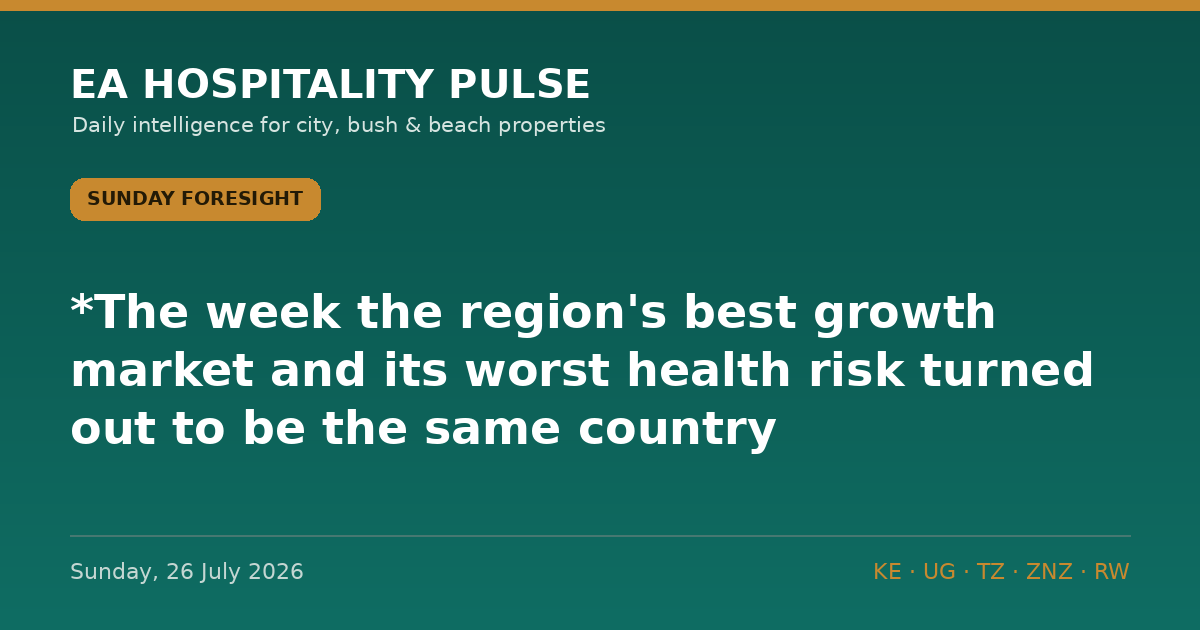
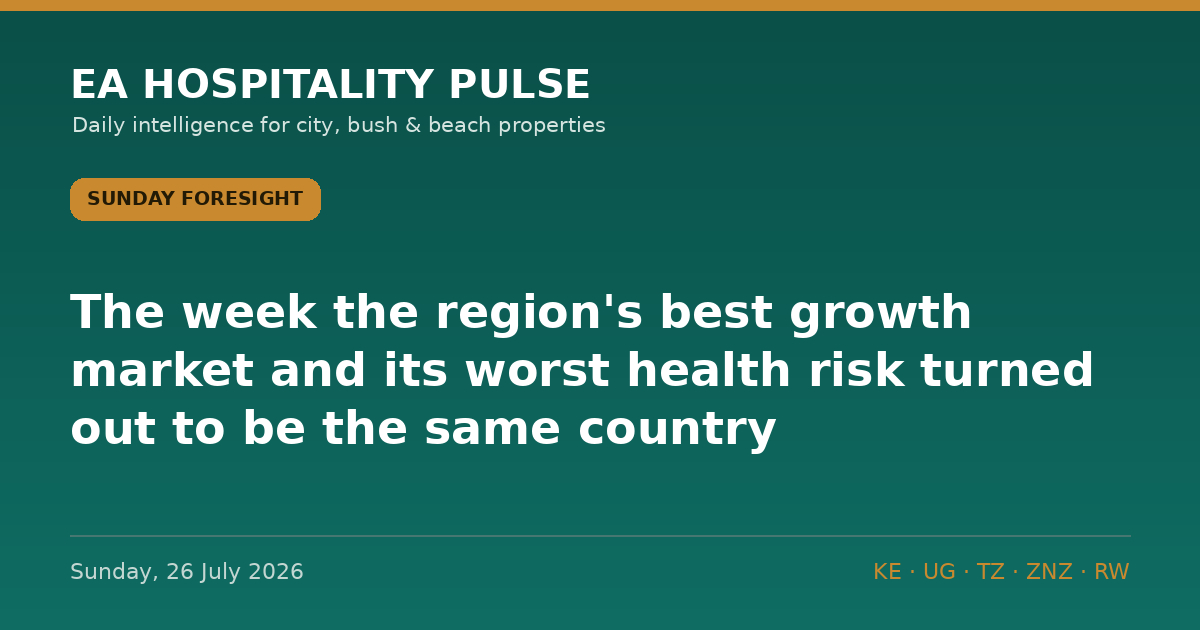
Render markdown emphasis on web and PDF instead of literal asterisks

Changed region(s): [[0.0617, 0.4524, 0.8325, 0.5429]]

diff --git a/editions/foresight-2026-07-26.html b/editions/foresight-2026-07-26.html
@@ -2,19 +2,19 @@
 <html lang="en"><head>
 <meta charset="UTF-8"><meta name="viewport" content="width=device-width,initial-scale=1">
 <title>Sunday Foresight — Sunday, 26 July 2026 | EA Hospitality Pulse</title>
-<meta name="description" content="*The week the region&#x27;s best growth market and its worst health risk turned out to be the same country.*">
+<meta name="description" content="The week the region&#x27;s best growth market and its worst health risk turned out to be the same country.">
 <link rel="canonical" href="https://ogcollyns-creator.github.io/ea-hospitality-pulse/editions/foresight-2026-07-26.html">
 <meta property="og:type" content="article"><meta property="og:site_name" content="EA Hospitality Pulse">
 <meta property="og:title" content="Sunday Foresight — Sunday, 26 July 2026">
-<meta property="og:description" content="*The week the region&#x27;s best growth market and its worst health risk turned out to be the same country.*"><meta property="og:url" content="https://ogcollyns-creator.github.io/ea-hospitality-pulse/editions/foresight-2026-07-26.html">
+<meta property="og:description" content="The week the region&#x27;s best growth market and its worst health risk turned out to be the same country."><meta property="og:url" content="https://ogcollyns-creator.github.io/ea-hospitality-pulse/editions/foresight-2026-07-26.html">
 <meta property="og:image" content="https://ogcollyns-creator.github.io/ea-hospitality-pulse/og/foresight-2026-07-26.png"><meta property="og:image:width" content="1200"><meta property="og:image:height" content="630">
 <meta name="twitter:image" content="https://ogcollyns-creator.github.io/ea-hospitality-pulse/og/foresight-2026-07-26.png">
 <link rel="icon" href="../favicon.png"><link rel="apple-touch-icon" href="../apple-touch-icon.png">
 <meta name="twitter:card" content="summary_large_image">
 <meta name="twitter:title" content="Sunday Foresight — Sunday, 26 July 2026">
-<meta name="twitter:description" content="*The week the region&#x27;s best growth market and its worst health risk turned out to be the same country.*">
+<meta name="twitter:description" content="The week the region&#x27;s best growth market and its worst health risk turned out to be the same country.">
 <meta property="article:published_time" content="2026-07-26">
-<script type="application/ld+json">{"@context": "https://schema.org", "@type": "NewsArticle", "headline": "*The week the region's best growth market and its worst health risk turned out to be the same country.*", "datePublished": "2026-07-26", "dateModified": "2026-07-26", "description": "*The week the region's best growth market and its worst health risk turned out to be the same country.*", "url": "https://ogcollyns-creator.github.io/ea-hospitality-pulse/editions/foresight-2026-07-26.html", "mainEntityOfPage": "https://ogcollyns-creator.github.io/ea-hospitality-pulse/editions/foresight-2026-07-26.html", "articleSection": "Sunday Foresight", "author": {"@type": "Organization", "name": "EA Hospitality Pulse"}, "publisher": {"@type": "Organization", "name": "EA Hospitality Pulse"}, "about": ["Kenya", "Uganda", "Tanzania", "Zanzibar", "Rwanda", "hospitality", "tourism"]}</script>
+<script type="application/ld+json">{"@context": "https://schema.org", "@type": "NewsArticle", "headline": "The week the region's best growth market and its worst health risk turned out to be the same country.", "datePublished": "2026-07-26", "dateModified": "2026-07-26", "description": "The week the region's best growth market and its worst health risk turned out to be the same country.", "url": "https://ogcollyns-creator.github.io/ea-hospitality-pulse/editions/foresight-2026-07-26.html", "mainEntityOfPage": "https://ogcollyns-creator.github.io/ea-hospitality-pulse/editions/foresight-2026-07-26.html", "articleSection": "Sunday Foresight", "author": {"@type": "Organization", "name": "EA Hospitality Pulse"}, "publisher": {"@type": "Organization", "name": "EA Hospitality Pulse"}, "about": ["Kenya", "Uganda", "Tanzania", "Zanzibar", "Rwanda", "hospitality", "tourism"]}</script>
 <style>
 :root{--sand:#f6f1e7;--ink:#1f2421;--muted:#6b6656;--gold:#c8892f;--gold-d:#a86f1f;--teal:#0f6d63;--teal-d:#0a4f48;--line:#e2d8c4;--sand-2:#efe7d6;--card:#fffdf9}
 *{box-sizing:border-box}body{margin:0;font-family:Georgia,Cambria,serif;color:var(--ink);background:var(--sand);line-height:1.6}
@@ -48,20 +48,20 @@ footer.s{text-align:center;color:var(--muted);font-family:Helvetica Neue,Arial,s
   <article class="art">
     <a class="nav" href="../index.html#archive">← All editions</a>
     <div><span class="badge">Sunday Foresight</span><time>Sunday, 26 July 2026</time></div>
-    <h1>*The week the region&#x27;s best growth market and its worst health risk turned out to be the same country.</h1>
+    <h1>The week the region&#x27;s best growth market and its worst health risk turned out to be the same country.</h1>
     <p><span class="meta-line">🏨 EA HOSPITALITY PULSE — Sunday Foresight</span><br><span class="meta-line">📅 Sunday, 26 July 2026 | 🇰🇪 🇺🇬 🇹🇿 🇷🇼</span></p>
-<p>*The week the region&#x27;s best growth market and its worst health risk turned out to be the same country.*<br>━━━━━━━━━</p>
-<p>**THE THEME: YOUR NEW GROWTH ENGINE HAS A HEALTH PROBLEM**</p>
+<p><strong>The week the region&#x27;s best growth market and its worst health risk turned out to be the same country.</strong><br>━━━━━━━━━</p>
+<p><strong>THE THEME: YOUR NEW GROWTH ENGINE HAS A HEALTH PROBLEM</strong></p>
 <p>Read the daily briefs back and the week looks like good news. Uganda counting down to an Ebola all-clear. Uganda Airlines committing to eight Boeing jets. Emirates going triple-daily into Nairobi. Kampala winning FHS Africa 2027. Mombasa clearing 20,000 visitors in seven days.</p>
 <p>Now put one more number beside them. Rwanda&#x27;s largest single source market in the first half of 2026 was not Europe, not the United States, not Kenya — it was the Democratic Republic of Congo, with 185,420 visitors, 12.5% of all arrivals (reported 18 July). Add Uganda, Kenya and Tanzania and roughly 42% of Rwanda&#x27;s arrivals now come from four neighbours. That is the shape of this cycle&#x27;s growth right across the region: regional, repeat, cheap to acquire, weakly branded.</p>
 <p>And on 24 July the ECDC&#x27;s weekly threats report put DRC&#x27;s Bundibugyo outbreak at 2,473 confirmed cases and 999 deaths, spread across 47 of 140 health zones in five provinces. The region has been watching Uganda&#x27;s 42-day clock. The clock that matters is the one nobody is timing — in the country that is now Rwanda&#x27;s biggest customer. European leisure demand takes months to leave and months to return. Regional demand can be switched off in an afternoon by a border notice, and Rwanda has already done exactly that with its 30-day DRC travel-history rule. Cheap demand is fragile demand. Price it that way.</p>
-<p>━━━━━━━━━<br>**THE WEEK&#x27;S SIGNALS**</p>
-<p><span class="item-head">1⃣ **DRC&#x27;S OUTBREAK IS GROWING, NOT SHRINKING**</span><br>The ECDC&#x27;s Communicable Disease Threats Report for week 30 (published 24 July) and its outbreak page (updated 22 July) cite DRC&#x27;s INSP situation report of 21 July: 2,473 confirmed cases and 999 deaths, with 50 new confirmed cases and 32 deaths in a single day. Ituri alone accounts for 2,202 cases. Uganda, by contrast, has had no new case since 21 June. We have not seen this translated for operators anywhere in the trade press.<br><span class="sowhat">🎯 **So what:** Stop budgeting for a &quot;post-declaration bounce&quot; in late August. Uganda&#x27;s all-clear resolves Uganda&#x27;s outbreak, not the region&#x27;s risk file. Brief your agents now that the Ugandan and Congolese situations are separate — because the advisory desks in Washington, London and Berlin are modelling DRC&#x27;s curve, not Uganda&#x27;s.</span><br><span class="tagline">🏷 Bush/City | 🇺🇬 🇷🇼 Regional | Confirmed | ECDC, 24 July</span></p>
-<p><span class="item-head">2⃣ **UGANDA AIRLINES BUYS FOR A DECADE IT HASN&#x27;T UNDERWRITTEN**</span><br>At Farnborough on 21 July, Uganda Airlines ordered four Boeing 737-8 MAX and four 787-9 Dreamliners — its first direct purchase from Boeing (New Vision, 22 July). The 787-9s are for Europe, Asia and the Middle East; the MAXs for Africa, the Middle East and India. The carrier currently serves 17 destinations in 13 countries from Entebbe.<br><span class="sowhat">🎯 **So what:** This is a long-haul bet placed by a country sitting at US Level 4 with Q1 Entebbe arrivals down 7.9%. Seats, not brand, will set 2027–28 Kampala rates. If you own Kampala rooms, model a scenario where lift arrives twelve months before the advisory lifts: high volume, low rate, heavy regional and Indian mix. Start building corporate and MICE contracts now while you still have pricing power.</span><br><span class="tagline">🏷 City/Bush | 🇺🇬 | Confirmed | New Vision, 22 July</span></p>
-<p><span class="item-head">3⃣ **KENYA&#x27;S COAST IS RUNNING HOT WHILE THE INTERIOR ARGUES**</span><br>Tourism CS Rebecca Miano said on Friday 24 July that more than 20,000 visitors arrived through Mombasa in the previous week. That is peak-season strength holding through a fortnight of political noise, a UK training-exercise withdrawal from Laikipia and an unresolved Mara licensing case.<br><span class="sowhat">🎯 **So what:** Coast demand is not the problem this quarter; conversion is. Hold rate through August rather than discounting into a full house, and shift any spend into September–November, where the coast is thinner than the bush.</span><br><span class="tagline">🏷 Beach/Bush | 🇰🇪 | Confirmed | Ministry of Tourism via Kenyan press, 24 July</span></p>
-<p>━━━━━━━━━<br><span class="meta-line">📡 **30/90-DAY DEMAND CALENDAR**</span></p>
-<p>🇰🇪 **14 Aug** — EPRA monthly fuel review. Pump prices are frozen until this date (EPRA, 14 July). *Lock transfer and generator pricing for September now, before the review.*<br>🇹🇿 **~13 Aug** — Zanzibar Commission for Tourism July arrivals (June&#x27;s 69,605 landed 13 July). *If July growth again prints under 10%, treat the supply wave as a rate problem, not a demand story.*<br>🇺🇬 **~27 Aug** — Uganda&#x27;s 42-day countdown ends; earliest date for an end-of-outbreak declaration. *Have the &quot;we are open, here is the evidence&quot; agent pack drafted by 20 August — not written on the day.*<br>🇰🇪 **31 Aug** — KNBS monthly CPI. *The wage and laundry cost line for your Q4 budget.*<br>🇺🇬 **25–27 Sept** — Three days of free national park entry (UWA). *Package a shoulder-season lodge stay against it now; entry fees only — game drives and permits still bill.*<br>🇹🇿 **24–27 Sept** — TIMEXPO, Dar es Salaam. *Corporate room-night demand; quote group rates before the end of August.*<br>🌍 **Every Friday** — ECDC Communicable Disease Threats Report. *The cleanest weekly read on DRC&#x27;s trajectory. Next: 31 July.*<br>🇹🇿 **by 31 Oct** — Our outer date for the Fair Competition Commission&#x27;s ruling on A Squared Holding&#x27;s acquisition of Nawiri/Asilia. *If it clears unconditionally, expect consolidation pricing across the northern circuit into 2027.*</p>
-<p>━━━━━━━━━<br>📓 **THE LEDGER**<br>Nothing resolved this week. Seventeen calls open. The two that matter most are P001 (Uganda declared clear on or about 27 August) and P002 (the US does not lower Uganda from Level 4 within 30 days of that declaration). This week&#x27;s DRC numbers make us more confident in P002, not less.</p>
+<p>━━━━━━━━━<br><strong>THE WEEK&#x27;S SIGNALS</strong></p>
+<p><span class="item-head">1⃣ <strong>DRC&#x27;S OUTBREAK IS GROWING, NOT SHRINKING</strong></span><br>The ECDC&#x27;s Communicable Disease Threats Report for week 30 (published 24 July) and its outbreak page (updated 22 July) cite DRC&#x27;s INSP situation report of 21 July: 2,473 confirmed cases and 999 deaths, with 50 new confirmed cases and 32 deaths in a single day. Ituri alone accounts for 2,202 cases. Uganda, by contrast, has had no new case since 21 June. We have not seen this translated for operators anywhere in the trade press.<br><span class="sowhat">🎯 <strong>So what:</strong> Stop budgeting for a &quot;post-declaration bounce&quot; in late August. Uganda&#x27;s all-clear resolves Uganda&#x27;s outbreak, not the region&#x27;s risk file. Brief your agents now that the Ugandan and Congolese situations are separate — because the advisory desks in Washington, London and Berlin are modelling DRC&#x27;s curve, not Uganda&#x27;s.</span><br><span class="tagline">🏷 Bush/City | 🇺🇬 🇷🇼 Regional | Confirmed | ECDC, 24 July</span></p>
+<p><span class="item-head">2⃣ <strong>UGANDA AIRLINES BUYS FOR A DECADE IT HASN&#x27;T UNDERWRITTEN</strong></span><br>At Farnborough on 21 July, Uganda Airlines ordered four Boeing 737-8 MAX and four 787-9 Dreamliners — its first direct purchase from Boeing (New Vision, 22 July). The 787-9s are for Europe, Asia and the Middle East; the MAXs for Africa, the Middle East and India. The carrier currently serves 17 destinations in 13 countries from Entebbe.<br><span class="sowhat">🎯 <strong>So what:</strong> This is a long-haul bet placed by a country sitting at US Level 4 with Q1 Entebbe arrivals down 7.9%. Seats, not brand, will set 2027–28 Kampala rates. If you own Kampala rooms, model a scenario where lift arrives twelve months before the advisory lifts: high volume, low rate, heavy regional and Indian mix. Start building corporate and MICE contracts now while you still have pricing power.</span><br><span class="tagline">🏷 City/Bush | 🇺🇬 | Confirmed | New Vision, 22 July</span></p>
+<p><span class="item-head">3⃣ <strong>KENYA&#x27;S COAST IS RUNNING HOT WHILE THE INTERIOR ARGUES</strong></span><br>Tourism CS Rebecca Miano said on Friday 24 July that more than 20,000 visitors arrived through Mombasa in the previous week. That is peak-season strength holding through a fortnight of political noise, a UK training-exercise withdrawal from Laikipia and an unresolved Mara licensing case.<br><span class="sowhat">🎯 <strong>So what:</strong> Coast demand is not the problem this quarter; conversion is. Hold rate through August rather than discounting into a full house, and shift any spend into September–November, where the coast is thinner than the bush.</span><br><span class="tagline">🏷 Beach/Bush | 🇰🇪 | Confirmed | Ministry of Tourism via Kenyan press, 24 July</span></p>
+<p>━━━━━━━━━<br><span class="meta-line">📡 <strong>30/90-DAY DEMAND CALENDAR</strong></span></p>
+<p>🇰🇪 <strong>14 Aug</strong> — EPRA monthly fuel review. Pump prices are frozen until this date (EPRA, 14 July). <strong>Lock transfer and generator pricing for September now, before the review.</strong><br>🇹🇿 <strong>~13 Aug</strong> — Zanzibar Commission for Tourism July arrivals (June&#x27;s 69,605 landed 13 July). <strong>If July growth again prints under 10%, treat the supply wave as a rate problem, not a demand story.</strong><br>🇺🇬 <strong>~27 Aug</strong> — Uganda&#x27;s 42-day countdown ends; earliest date for an end-of-outbreak declaration. <strong>Have the &quot;we are open, here is the evidence&quot; agent pack drafted by 20 August — not written on the day.</strong><br>🇰🇪 <strong>31 Aug</strong> — KNBS monthly CPI. <strong>The wage and laundry cost line for your Q4 budget.</strong><br>🇺🇬 <strong>25–27 Sept</strong> — Three days of free national park entry (UWA). <strong>Package a shoulder-season lodge stay against it now; entry fees only — game drives and permits still bill.</strong><br>🇹🇿 <strong>24–27 Sept</strong> — TIMEXPO, Dar es Salaam. <strong>Corporate room-night demand; quote group rates before the end of August.</strong><br>🌍 <strong>Every Friday</strong> — ECDC Communicable Disease Threats Report. <strong>The cleanest weekly read on DRC&#x27;s trajectory. Next: 31 July.</strong><br>🇹🇿 <strong>by 31 Oct</strong> — Our outer date for the Fair Competition Commission&#x27;s ruling on A Squared Holding&#x27;s acquisition of Nawiri/Asilia. <strong>If it clears unconditionally, expect consolidation pricing across the northern circuit into 2027.</strong></p>
+<p>━━━━━━━━━<br>📓 <strong>THE LEDGER</strong><br>Nothing resolved this week. Seventeen calls open. The two that matter most are P001 (Uganda declared clear on or about 27 August) and P002 (the US does not lower Uganda from Level 4 within 30 days of that declaration). This week&#x27;s DRC numbers make us more confident in P002, not less.</p>
 <p><span class="meta-line">💬 What share of your 2027 forecast depends on guests from a neighbouring country — and have you ever stress-tested that line against a border notice?</span></p>
 <p>🔗 This edition on the web: https://ogcollyns-creator.github.io/ea-hospitality-pulse/editions/foresight-2026-07-26.html<br>💼 This week&#x27;s Big Read on LinkedIn: https://www.linkedin.com/company/ea-hospitality-pulse/</p>
 <p>— EA Hospitality Pulse | Daily intelligence for city, bush &amp; beach properties</p>

diff --git a/data.js b/data.js
@@ -5,8 +5,8 @@ window.EDITIONS = [
   "dateDisplay": "Sunday, 26 July 2026",
   "edition": "Sunday Foresight",
   "editionKey": "foresight",
-  "summary": "*The week the region's best growth market and its worst health risk turned out to be the same country.*",
-  "bodyHtml": "<p><span class=\"meta-line\">🏨 EA HOSPITALITY PULSE — Sunday Foresight</span><br><span class=\"meta-line\">📅 Sunday, 26 July 2026 | 🇰🇪 🇺🇬 🇹🇿 🇷🇼</span></p>\n<p>*The week the region&#x27;s best growth market and its worst health risk turned out to be the same country.*<br>━━━━━━━━━</p>\n<p>**THE THEME: YOUR NEW GROWTH ENGINE HAS A HEALTH PROBLEM**</p>\n<p>Read the daily briefs back and the week looks like good news. Uganda counting down to an Ebola all-clear. Uganda Airlines committing to eight Boeing jets. Emirates going triple-daily into Nairobi. Kampala winning FHS Africa 2027. Mombasa clearing 20,000 visitors in seven days.</p>\n<p>Now put one more number beside them. Rwanda&#x27;s largest single source market in the first half of 2026 was not Europe, not the United States, not Kenya — it was the Democratic Republic of Congo, with 185,420 visitors, 12.5% of all arrivals (reported 18 July). Add Uganda, Kenya and Tanzania and roughly 42% of Rwanda&#x27;s arrivals now come from four neighbours. That is the shape of this cycle&#x27;s growth right across the region: regional, repeat, cheap to acquire, weakly branded.</p>\n<p>And on 24 July the ECDC&#x27;s weekly threats report put DRC&#x27;s Bundibugyo outbreak at 2,473 confirmed cases and 999 deaths, spread across 47 of 140 health zones in five provinces. The region has been watching Uganda&#x27;s 42-day clock. The clock that matters is the one nobody is timing — in the country that is now Rwanda&#x27;s biggest customer. European leisure demand takes months to leave and months to return. Regional demand can be switched off in an afternoon by a border notice, and Rwanda has already done exactly that with its 30-day DRC travel-history rule. Cheap demand is fragile demand. Price it that way.</p>\n<p>━━━━━━━━━<br>**THE WEEK&#x27;S SIGNALS**</p>\n<p><span class=\"item-head\">1⃣ **DRC&#x27;S OUTBREAK IS GROWING, NOT SHRINKING**</span><br>The ECDC&#x27;s Communicable Disease Threats Report for week 30 (published 24 July) and its outbreak page (updated 22 July) cite DRC&#x27;s INSP situation report of 21 July: 2,473 confirmed cases and 999 deaths, with 50 new confirmed cases and 32 deaths in a single day. Ituri alone accounts for 2,202 cases. Uganda, by contrast, has had no new case since 21 June. We have not seen this translated for operators anywhere in the trade press.<br><span class=\"sowhat\">🎯 **So what:** Stop budgeting for a &quot;post-declaration bounce&quot; in late August. Uganda&#x27;s all-clear resolves Uganda&#x27;s outbreak, not the region&#x27;s risk file. Brief your agents now that the Ugandan and Congolese situations are separate — because the advisory desks in Washington, London and Berlin are modelling DRC&#x27;s curve, not Uganda&#x27;s.</span><br><span class=\"tagline\">🏷 Bush/City | 🇺🇬 🇷🇼 Regional | Confirmed | ECDC, 24 July</span></p>\n<p><span class=\"item-head\">2⃣ **UGANDA AIRLINES BUYS FOR A DECADE IT HASN&#x27;T UNDERWRITTEN**</span><br>At Farnborough on 21 July, Uganda Airlines ordered four Boeing 737-8 MAX and four 787-9 Dreamliners — its first direct purchase from Boeing (New Vision, 22 July). The 787-9s are for Europe, Asia and the Middle East; the MAXs for Africa, the Middle East and India. The carrier currently serves 17 destinations in 13 countries from Entebbe.<br><span class=\"sowhat\">🎯 **So what:** This is a long-haul bet placed by a country sitting at US Level 4 with Q1 Entebbe arrivals down 7.9%. Seats, not brand, will set 2027–28 Kampala rates. If you own Kampala rooms, model a scenario where lift arrives twelve months before the advisory lifts: high volume, low rate, heavy regional and Indian mix. Start building corporate and MICE contracts now while you still have pricing power.</span><br><span class=\"tagline\">🏷 City/Bush | 🇺🇬 | Confirmed | New Vision, 22 July</span></p>\n<p><span class=\"item-head\">3⃣ **KENYA&#x27;S COAST IS RUNNING HOT WHILE THE INTERIOR ARGUES**</span><br>Tourism CS Rebecca Miano said on Friday 24 July that more than 20,000 visitors arrived through Mombasa in the previous week. That is peak-season strength holding through a fortnight of political noise, a UK training-exercise withdrawal from Laikipia and an unresolved Mara licensing case.<br><span class=\"sowhat\">🎯 **So what:** Coast demand is not the problem this quarter; conversion is. Hold rate through August rather than discounting into a full house, and shift any spend into September–November, where the coast is thinner than the bush.</span><br><span class=\"tagline\">🏷 Beach/Bush | 🇰🇪 | Confirmed | Ministry of Tourism via Kenyan press, 24 July</span></p>\n<p>━━━━━━━━━<br><span class=\"meta-line\">📡 **30/90-DAY DEMAND CALENDAR**</span></p>\n<p>🇰🇪 **14 Aug** — EPRA monthly fuel review. Pump prices are frozen until this date (EPRA, 14 July). *Lock transfer and generator pricing for September now, before the review.*<br>🇹🇿 **~13 Aug** — Zanzibar Commission for Tourism July arrivals (June&#x27;s 69,605 landed 13 July). *If July growth again prints under 10%, treat the supply wave as a rate problem, not a demand story.*<br>🇺🇬 **~27 Aug** — Uganda&#x27;s 42-day countdown ends; earliest date for an end-of-outbreak declaration. *Have the &quot;we are open, here is the evidence&quot; agent pack drafted by 20 August — not written on the day.*<br>🇰🇪 **31 Aug** — KNBS monthly CPI. *The wage and laundry cost line for your Q4 budget.*<br>🇺🇬 **25–27 Sept** — Three days of free national park entry (UWA). *Package a shoulder-season lodge stay against it now; entry fees only — game drives and permits still bill.*<br>🇹🇿 **24–27 Sept** — TIMEXPO, Dar es Salaam. *Corporate room-night demand; quote group rates before the end of August.*<br>🌍 **Every Friday** — ECDC Communicable Disease Threats Report. *The cleanest weekly read on DRC&#x27;s trajectory. Next: 31 July.*<br>🇹🇿 **by 31 Oct** — Our outer date for the Fair Competition Commission&#x27;s ruling on A Squared Holding&#x27;s acquisition of Nawiri/Asilia. *If it clears unconditionally, expect consolidation pricing across the northern circuit into 2027.*</p>\n<p>━━━━━━━━━<br>📓 **THE LEDGER**<br>Nothing resolved this week. Seventeen calls open. The two that matter most are P001 (Uganda declared clear on or about 27 August) and P002 (the US does not lower Uganda from Level 4 within 30 days of that declaration). This week&#x27;s DRC numbers make us more confident in P002, not less.</p>\n<p><span class=\"meta-line\">💬 What share of your 2027 forecast depends on guests from a neighbouring country — and have you ever stress-tested that line against a border notice?</span></p>\n<p>🔗 This edition on the web: https://ogcollyns-creator.github.io/ea-hospitality-pulse/editions/foresight-2026-07-26.html<br>💼 This week&#x27;s Big Read on LinkedIn: https://www.linkedin.com/company/ea-hospitality-pulse/</p>\n<p>— EA Hospitality Pulse | Daily intelligence for city, bush &amp; beach properties</p>"
+  "summary": "The week the region's best growth market and its worst health risk turned out to be the same country.",
+  "bodyHtml": "<p><span class=\"meta-line\">🏨 EA HOSPITALITY PULSE — Sunday Foresight</span><br><span class=\"meta-line\">📅 Sunday, 26 July 2026 | 🇰🇪 🇺🇬 🇹🇿 🇷🇼</span></p>\n<p><strong>The week the region&#x27;s best growth market and its worst health risk turned out to be the same country.</strong><br>━━━━━━━━━</p>\n<p><strong>THE THEME: YOUR NEW GROWTH ENGINE HAS A HEALTH PROBLEM</strong></p>\n<p>Read the daily briefs back and the week looks like good news. Uganda counting down to an Ebola all-clear. Uganda Airlines committing to eight Boeing jets. Emirates going triple-daily into Nairobi. Kampala winning FHS Africa 2027. Mombasa clearing 20,000 visitors in seven days.</p>\n<p>Now put one more number beside them. Rwanda&#x27;s largest single source market in the first half of 2026 was not Europe, not the United States, not Kenya — it was the Democratic Republic of Congo, with 185,420 visitors, 12.5% of all arrivals (reported 18 July). Add Uganda, Kenya and Tanzania and roughly 42% of Rwanda&#x27;s arrivals now come from four neighbours. That is the shape of this cycle&#x27;s growth right across the region: regional, repeat, cheap to acquire, weakly branded.</p>\n<p>And on 24 July the ECDC&#x27;s weekly threats report put DRC&#x27;s Bundibugyo outbreak at 2,473 confirmed cases and 999 deaths, spread across 47 of 140 health zones in five provinces. The region has been watching Uganda&#x27;s 42-day clock. The clock that matters is the one nobody is timing — in the country that is now Rwanda&#x27;s biggest customer. European leisure demand takes months to leave and months to return. Regional demand can be switched off in an afternoon by a border notice, and Rwanda has already done exactly that with its 30-day DRC travel-history rule. Cheap demand is fragile demand. Price it that way.</p>\n<p>━━━━━━━━━<br><strong>THE WEEK&#x27;S SIGNALS</strong></p>\n<p><span class=\"item-head\">1⃣ <strong>DRC&#x27;S OUTBREAK IS GROWING, NOT SHRINKING</strong></span><br>The ECDC&#x27;s Communicable Disease Threats Report for week 30 (published 24 July) and its outbreak page (updated 22 July) cite DRC&#x27;s INSP situation report of 21 July: 2,473 confirmed cases and 999 deaths, with 50 new confirmed cases and 32 deaths in a single day. Ituri alone accounts for 2,202 cases. Uganda, by contrast, has had no new case since 21 June. We have not seen this translated for operators anywhere in the trade press.<br><span class=\"sowhat\">🎯 <strong>So what:</strong> Stop budgeting for a &quot;post-declaration bounce&quot; in late August. Uganda&#x27;s all-clear resolves Uganda&#x27;s outbreak, not the region&#x27;s risk file. Brief your agents now that the Ugandan and Congolese situations are separate — because the advisory desks in Washington, London and Berlin are modelling DRC&#x27;s curve, not Uganda&#x27;s.</span><br><span class=\"tagline\">🏷 Bush/City | 🇺🇬 🇷🇼 Regional | Confirmed | ECDC, 24 July</span></p>\n<p><span class=\"item-head\">2⃣ <strong>UGANDA AIRLINES BUYS FOR A DECADE IT HASN&#x27;T UNDERWRITTEN</strong></span><br>At Farnborough on 21 July, Uganda Airlines ordered four Boeing 737-8 MAX and four 787-9 Dreamliners — its first direct purchase from Boeing (New Vision, 22 July). The 787-9s are for Europe, Asia and the Middle East; the MAXs for Africa, the Middle East and India. The carrier currently serves 17 destinations in 13 countries from Entebbe.<br><span class=\"sowhat\">🎯 <strong>So what:</strong> This is a long-haul bet placed by a country sitting at US Level 4 with Q1 Entebbe arrivals down 7.9%. Seats, not brand, will set 2027–28 Kampala rates. If you own Kampala rooms, model a scenario where lift arrives twelve months before the advisory lifts: high volume, low rate, heavy regional and Indian mix. Start building corporate and MICE contracts now while you still have pricing power.</span><br><span class=\"tagline\">🏷 City/Bush | 🇺🇬 | Confirmed | New Vision, 22 July</span></p>\n<p><span class=\"item-head\">3⃣ <strong>KENYA&#x27;S COAST IS RUNNING HOT WHILE THE INTERIOR ARGUES</strong></span><br>Tourism CS Rebecca Miano said on Friday 24 July that more than 20,000 visitors arrived through Mombasa in the previous week. That is peak-season strength holding through a fortnight of political noise, a UK training-exercise withdrawal from Laikipia and an unresolved Mara licensing case.<br><span class=\"sowhat\">🎯 <strong>So what:</strong> Coast demand is not the problem this quarter; conversion is. Hold rate through August rather than discounting into a full house, and shift any spend into September–November, where the coast is thinner than the bush.</span><br><span class=\"tagline\">🏷 Beach/Bush | 🇰🇪 | Confirmed | Ministry of Tourism via Kenyan press, 24 July</span></p>\n<p>━━━━━━━━━<br><span class=\"meta-line\">📡 <strong>30/90-DAY DEMAND CALENDAR</strong></span></p>\n<p>🇰🇪 <strong>14 Aug</strong> — EPRA monthly fuel review. Pump prices are frozen until this date (EPRA, 14 July). <strong>Lock transfer and generator pricing for September now, before the review.</strong><br>🇹🇿 <strong>~13 Aug</strong> — Zanzibar Commission for Tourism July arrivals (June&#x27;s 69,605 landed 13 July). <strong>If July growth again prints under 10%, treat the supply wave as a rate problem, not a demand story.</strong><br>🇺🇬 <strong>~27 Aug</strong> — Uganda&#x27;s 42-day countdown ends; earliest date for an end-of-outbreak declaration. <strong>Have the &quot;we are open, here is the evidence&quot; agent pack drafted by 20 August — not written on the day.</strong><br>🇰🇪 <strong>31 Aug</strong> — KNBS monthly CPI. <strong>The wage and laundry cost line for your Q4 budget.</strong><br>🇺🇬 <strong>25–27 Sept</strong> — Three days of free national park entry (UWA). <strong>Package a shoulder-season lodge stay against it now; entry fees only — game drives and permits still bill.</strong><br>🇹🇿 <strong>24–27 Sept</strong> — TIMEXPO, Dar es Salaam. <strong>Corporate room-night demand; quote group rates before the end of August.</strong><br>🌍 <strong>Every Friday</strong> — ECDC Communicable Disease Threats Report. <strong>The cleanest weekly read on DRC&#x27;s trajectory. Next: 31 July.</strong><br>🇹🇿 <strong>by 31 Oct</strong> — Our outer date for the Fair Competition Commission&#x27;s ruling on A Squared Holding&#x27;s acquisition of Nawiri/Asilia. <strong>If it clears unconditionally, expect consolidation pricing across the northern circuit into 2027.</strong></p>\n<p>━━━━━━━━━<br>📓 <strong>THE LEDGER</strong><br>Nothing resolved this week. Seventeen calls open. The two that matter most are P001 (Uganda declared clear on or about 27 August) and P002 (the US does not lower Uganda from Level 4 within 30 days of that declaration). This week&#x27;s DRC numbers make us more confident in P002, not less.</p>\n<p><span class=\"meta-line\">💬 What share of your 2027 forecast depends on guests from a neighbouring country — and have you ever stress-tested that line against a border notice?</span></p>\n<p>🔗 This edition on the web: https://ogcollyns-creator.github.io/ea-hospitality-pulse/editions/foresight-2026-07-26.html<br>💼 This week&#x27;s Big Read on LinkedIn: https://www.linkedin.com/company/ea-hospitality-pulse/</p>\n<p>— EA Hospitality Pulse | Daily intelligence for city, bush &amp; beach properties</p>"
  },
  {
   "id": "pulse-2026-07-26-midday",
@@ -797,4 +797,4 @@ window.INSIGHTS = [
   "editionKey": "evening"
  }
 ];
-window.BUILT_AT = "2026-07-26 17:48";
+window.BUILT_AT = "2026-07-26 17:52";

diff --git a/ledger.js b/ledger.js
@@ -1,5 +1,5 @@
 window.LEDGER = {
- "updated": "2026-07-26 17:48",
+ "updated": "2026-07-26 17:52",
  "stats": {
   "total": 20,
   "open": 20,

diff --git a/build_site.py b/build_site.py
@@ -33,6 +33,26 @@ EDITION_LABELS = {
 }
 KEYCAP = re.compile(r"^([0-9]?⃣)\s*")
 
+# Editions are written with *bold* / _italic_ (the WhatsApp/Telegram convention).
+# Render them properly on the web instead of printing literal asterisks.
+_BOLD2 = re.compile(r"\*\*([^*\n]+?)\*\*")
+_BOLD1 = re.compile(r"(?<!\w)\*([^*\n]+?)\*(?!\w)")
+_ITAL  = re.compile(r"(?<![\w/])_([^_\n]+?)_(?![\w/])")
+
+def md_inline(escaped):
+    """Apply after html.escape() — converts emphasis markers to real tags."""
+    t = _BOLD2.sub(r"<strong>\1</strong>", escaped)
+    t = _BOLD1.sub(r"<strong>\1</strong>", t)
+    t = _ITAL.sub(r"<em>\1</em>", t)
+    return t
+
+def md_strip(text):
+    """Remove emphasis markers for plain-text contexts (summaries, share images)."""
+    t = _BOLD2.sub(r"\1", text)
+    t = _BOLD1.sub(r"\1", t)
+    t = _ITAL.sub(r"\1", t)
+    return t
+
 def parse_filename(fn):
     base = fn.rsplit(".", 1)[0]
     m = re.search(r"(\d{4}-\d{2}-\d{2})", base)
@@ -92,7 +112,7 @@ def render_body(text):
         if set(blk) <= set("━—-–_ "): out.append('<hr class="divider">'); continue
         r=[]
         for l in [x.strip() for x in blk.split("\n") if x.strip()]:
-            e=html.escape(l)
+            e=md_inline(html.escape(l))
             if KEYCAP.match(l): e=f'<span class="item-head">{e}</span>'
             elif l.startswith("🎯"): e=f'<span class="sowhat">{e}</span>'
             elif l.startswith("🏷"): e=f'<span class="tagline">{e}</span>'
@@ -106,7 +126,7 @@ def summarise(text):
     for l in text.split("\n"):
         l=l.strip()
         if l and not l.startswith(("🏨","📅","━","#")) and len(l)>40:
-            return re.sub(r"\s+"," ",l)[:200]
+            return md_strip(re.sub(r"\s+"," ",l))[:200]
     return "East Africa hospitality intelligence."
 
 # Editions must sort by when they were actually PUBLISHED. Filenames don't do this:

diff --git a/make_foresight_pdf.py b/make_foresight_pdf.py
@@ -10,6 +10,13 @@ import sys, re, os
 FONT_DIR = "/usr/share/fonts/truetype/dejavu"
 TEAL=(10,79,72); GOLD=(168,111,31); INK=(31,36,33); MUTED=(107,102,86); SAND=(239,231,214)
 
+def strip_md(t):
+    """Editions use *bold*/_italic_; the PDF styles headings itself, so drop the markers."""
+    t = re.sub(r"\*\*([^*\n]+?)\*\*", r"\1", t)
+    t = re.sub(r"(?<!\w)\*([^*\n]+?)\*(?!\w)", r"\1", t)
+    t = re.sub(r"(?<![\w/])_([^_\n]+?)_(?![\w/])", r"\1", t)
+    return t
+
 def strip_emoji(t):
     return re.sub(r"[\U0001F000-\U0001FAFF\U00002600-\U000027BF\U0001F1E6-\U0001F1FF⃣←-⇿─-◿]", "", t).strip()
 
@@ -65,7 +72,7 @@ def main():
         if set(l) <= set("━—-–_ "):  # divider
             pdf.set_draw_color(225,216,196); pdf.set_line_width(0.2)
             pdf.line(pdf.l_margin,pdf.get_y(),pdf.l_margin+W,pdf.get_y()); pdf.ln(3); continue
-        clean = strip_emoji(l)
+        clean = strip_md(strip_emoji(l))
         if not clean: continue
         if re.match(r"^[0-9]?⃣", l):                       # numbered signal headline
             pdf.ln(1); para(clean, "B", 11.5, TEAL, gap=1.5)
